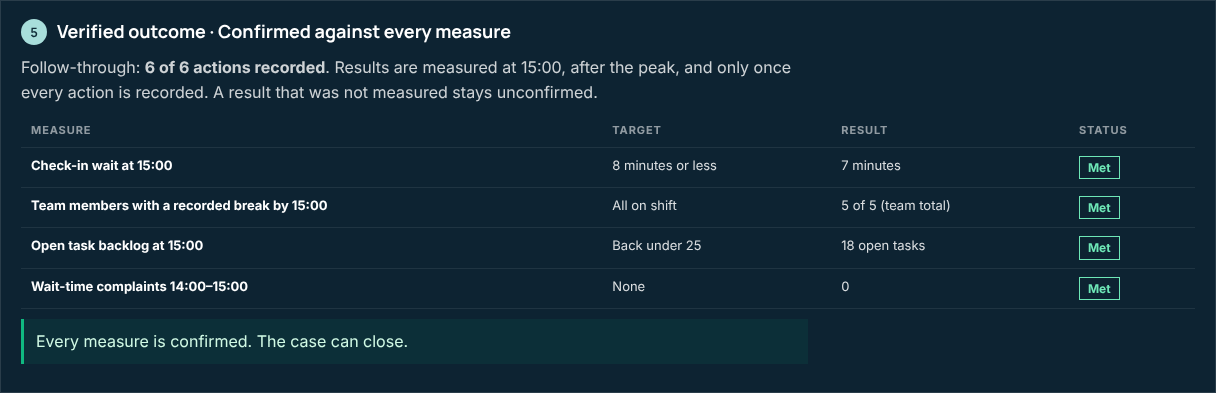
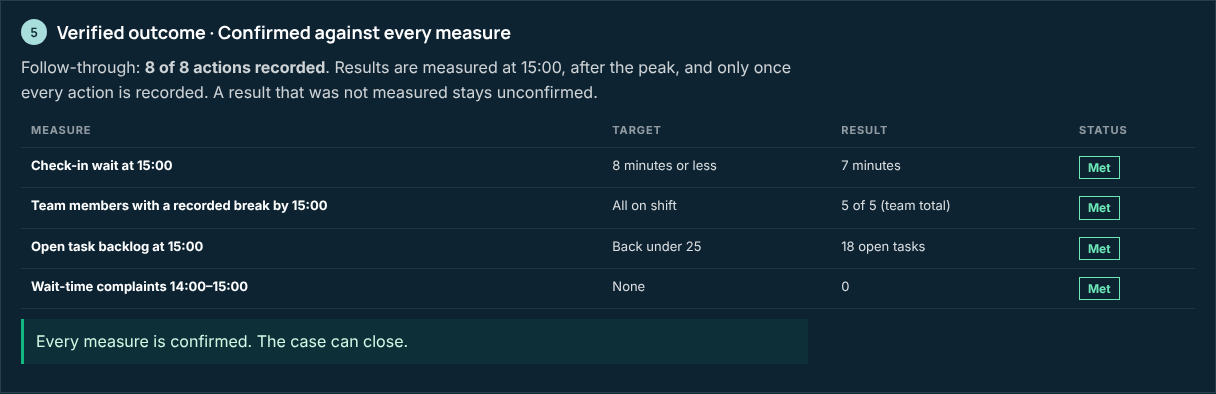
Stage 3: separate cross-property authorisation from cover in place
Both portfolio approvals now authorise the loan only. The capacity gap
stays open, and break cover stays blocked, until Coastal Resort records
the release and Harbour Hotel records the lent team member's arrival
(simulated). The redistribution plan in the capacity challenge moves
only the reservations agent, matching the one person available locally.

- New plan actions: release (General Manager · Coastal Resort, after
  both approvals) and arrival (Front Office Supervisor, after release).
- The capacity panel shows authorised / released / in place separately;
  the portfolio approval message says the loan is authorised, not
  carried out; the portfolio lists cover authorised but not in place.
- Unit and browser checks prove approvals (and release) alone do not
  unlock break cover, while the recorded arrival does.

Claude-Session: https://claude.ai/code/session_01F5TpjzTwv9w8J8EexRookR

diff --git a/artifacts/welbx/src/lib/peakPressure.ts b/artifacts/welbx/src/lib/peakPressure.ts
@@ -97,6 +97,7 @@ export const ACTORS = {
   "housekeeping-lead": "Housekeeping Lead · Harbour Hotel",
   "people-lead": "People & Culture Lead (restricted)",
   "regional-ops": "Regional Operations Manager (portfolio)",
+  "coastal-gm": "General Manager · Coastal Resort",
 } as const;
 export type ActorId = keyof typeof ACTORS;
 
@@ -139,7 +140,10 @@ export interface PeakState {
   review: { status: ReviewStatus; by?: ActorId; reason?: string; reviewInMinutes?: number; requested?: string; history: string[] };
   /** The guest-message draft needs the Duty Manager's approval before its action can finish. It is never sent. */
   draftApproved: boolean;
-  /** Set when the portfolio approves cross-property support (capacity challenge). */
+  /**
+   * Set when both portfolio approvals authorise the cross-property loan (capacity challenge).
+   * Authorisation alone does not close the cover gap: the release and arrival must be recorded.
+   */
   portfolioSupportApproved: boolean;
   done: Record<string, string>;
   measures: MeasureResult[] | null;
@@ -154,25 +158,38 @@ export function initialPeakState(challenge: ChallengeId): PeakState {
   };
 }
 
-/** People available to redistribute to the front desk and break cover, and how many the plan needs. */
+/**
+ * People who can cover the front desk and breaks, and how many the plan needs. In the capacity
+ * challenge the concierge is unavailable, so only the reservations agent can be released locally.
+ * The gap closes only when the lent team member's arrival is recorded, never on approval alone.
+ */
 export function capacity(state: PeakState) {
   const needed = 2;
   const available = state.challenge === "capacity" ? 1 : 2;
-  const gap = Math.max(0, needed - available - (state.portfolioSupportApproved ? 1 : 0));
-  return { needed, available, gap };
+  const lentInPlace = "arrival" in state.done ? 1 : 0;
+  const gap = Math.max(0, needed - available - lentInPlace);
+  return { needed, available, lentInPlace, authorised: state.portfolioSupportApproved, gap };
 }
 
 export function planFor(state: PeakState): ActionItem[] {
   const short = state.challenge === "capacity";
   const plan: ActionItem[] = [
-    { id: "redistribute", title: "Move a reservations agent and the concierge to the front desk for the peak", owner: "fo-supervisor", deadline: "13:45", dependsOn: ["approval"], evidence: "Roster change recorded" },
-    { id: "breaks", title: "Stagger breaks so everyone on shift has one by 15:00, covered by the redistributed staff", owner: "fo-supervisor", deadline: "15:00", dependsOn: ["redistribute", ...(short ? ["capacity"] : [])], evidence: "Count of team members with a recorded break (team total only)" },
+    short
+      ? { id: "redistribute", title: "Move the reservations agent to the front desk for the peak (the concierge is unavailable today)", owner: "fo-supervisor", deadline: "13:45", dependsOn: ["approval"], evidence: "Roster change recorded: 1 person moved" }
+      : { id: "redistribute", title: "Move a reservations agent and the concierge to the front desk for the peak", owner: "fo-supervisor", deadline: "13:45", dependsOn: ["approval"], evidence: "Roster change recorded: 2 people moved" },
+    { id: "breaks", title: short
+      ? "Stagger breaks so everyone on shift has one by 15:00, covered by the reservations agent and the team member lent by Coastal Resort"
+      : "Stagger breaks so everyone on shift has one by 15:00, covered by the redistributed staff", owner: "fo-supervisor", deadline: "15:00", dependsOn: ["redistribute", ...(short ? ["capacity"] : [])], evidence: "Count of team members with a recorded break (team total only)" },
     { id: "expectations", title: "Prepare a message for arriving guests about waits and early bag drop", owner: "guest-services", deadline: "14:00", dependsOn: ["approval", "draft"], evidence: "Draft approved by the Duty Manager and held; it is not sent from the demonstration" },
     { id: "housekeeping", title: "Re-prioritise the task queue for rooms needed by today's arrivals", owner: "housekeeping-lead", deadline: "14:30", dependsOn: ["approval"], evidence: "Queue order snapshot" },
     { id: "support", title: "Make the confidential support contact available to the whole team", owner: "people-lead", deadline: "14:00", dependsOn: ["approval"], evidence: "Offer shared with the team; who uses it is never recorded here" },
   ];
   if (short) {
-    plan.push({ id: "escalate", title: "Escalate the cover gap to the General Manager and request portfolio support", owner: "duty-manager", deadline: "13:50", dependsOn: ["approval"], evidence: "Escalation and portfolio request recorded", conditional: "Needed because break cover is one person short" });
+    plan.push(
+      { id: "escalate", title: "Escalate the cover gap to the General Manager and request portfolio support", owner: "duty-manager", deadline: "13:50", dependsOn: ["approval"], evidence: "Escalation and portfolio request recorded", conditional: "Needed because break cover is one person short" },
+      { id: "release", title: "Release one trained front-office team member to Harbour Hotel for 14:00–16:00", owner: "coastal-gm", deadline: "13:55", dependsOn: ["portfolio"], evidence: "Release time recorded at Coastal Resort, with confirmation that its own cover stays safe", conditional: "Only after both portfolio approvals" },
+      { id: "arrival", title: "Confirm the lent team member has arrived and been briefed at the front desk", owner: "fo-supervisor", deadline: "14:10", dependsOn: ["release"], evidence: "Arrival time recorded at Harbour Hotel; the gap closes only now", conditional: "Cover is in place only once arrival is recorded" },
+    );
   }
   return plan;
 }
@@ -181,6 +198,7 @@ function dependencyMet(state: PeakState, dependency: string) {
   if (dependency === "approval") return state.review.status === "approved";
   if (dependency === "draft") return state.draftApproved;
   if (dependency === "capacity") return capacity(state).gap === 0;
+  if (dependency === "portfolio") return state.portfolioSupportApproved;
   return dependency in state.done;
 }
 
@@ -189,10 +207,17 @@ export function actionState(state: PeakState, action: ActionItem): ActionState {
   return action.dependsOn.every(d => dependencyMet(state, d)) ? "ready" : "waiting";
 }
 
+/** Dependencies of an action that are not yet met. */
+export function pendingDependencies(state: PeakState, action: ActionItem): string[] {
+  return action.dependsOn.filter(d => !dependencyMet(state, d));
+}
+
 export const DEPENDENCY_LABELS: Record<string, string> = {
   approval: "Duty Manager approval",
   draft: "Duty Manager approval of the draft",
-  capacity: "Cover gap closed by portfolio support",
+  capacity: "Cover in place: the lent team member's arrival recorded",
+  portfolio: "Portfolio authorisation (Regional Operations Manager and Coastal Resort's General Manager)",
+  release: "Release recorded at Coastal Resort",
   redistribute: "Staff moved to the front desk",
 };
 
@@ -267,7 +292,7 @@ export function completeAction(state: PeakState, actionId: string, actor: ActorI
   assertRole(actor, action.owner, `record “${action.title}”`);
   const current = actionState(state, action);
   if (current === "done") throw new Error("Already recorded.");
-  if (current === "waiting") throw new Error(`Waiting for: ${action.dependsOn.filter(d => !dependencyMet(state, d)).map(d => DEPENDENCY_LABELS[d] ?? d).join(", ")}.`);
+  if (current === "waiting") throw new Error(`Waiting for: ${pendingDependencies(state, action).map(d => DEPENDENCY_LABELS[d] ?? d).join(", ")}.`);
   return { ...state, done: { ...state.done, [actionId]: at } };
 }
 
@@ -332,6 +357,7 @@ export function portfolioSummary(state: PeakState) {
   if (s === "awaiting-information") outstanding.push("Information requested by the Duty Manager");
   if (s === "approved" && !state.draftApproved) outstanding.push("Duty Manager approval of the guest message draft");
   if (s === "approved" && state.challenge === "capacity" && !state.portfolioSupportApproved) outstanding.push("Portfolio decision on cross-property cover");
+  if (state.portfolioSupportApproved && !("arrival" in state.done)) outstanding.push("Cross-property cover authorised but not yet in place");
   if (state.learning?.status === "proposed") outstanding.push("General Manager decision on the learning proposal");
   return {
     exposure: "1 property under peak pressure · 46 arrivals vs 28 typical · 2 uncovered front-office shifts",

diff --git a/artifacts/welbx/src/components/partner-room/PeakPressureScenario.tsx b/artifacts/welbx/src/components/partner-room/PeakPressureScenario.tsx
@@ -1,7 +1,7 @@
 import { useId, useState, type Dispatch, type SetStateAction } from "react";
 import {
   ACTORS, CHALLENGES, DEPENDENCY_LABELS, KIND_LABELS, LEARNING_ROLE, MIN_REASON, MONITOR_INTERVALS, REVIEW_ROLE,
-  actionState, approveDraft, assessPattern, buildSignals, capacity, completeAction, decideLearning, decideReview,
+  actionState, approveDraft, pendingDependencies, assessPattern, buildSignals, capacity, completeAction, decideLearning, decideReview,
   followThrough, outcome, planFor, receiveInformation, recordMeasures, recordMissingEvidence, reviewAgain,
   type ActorId, type ChallengeId, type PeakState, type ReviewDecision,
 } from "@/lib/peakPressure";
@@ -210,13 +210,18 @@ export function PeakPressureScenario({ state, setState, onRestart }: {
 
         {state.challenge === "capacity" && (
           <div className={`pk-capacity${cover.gap ? "" : " pk-capacity-closed"}`} data-testid="peak-capacity">
-            <p><strong>Preparation capacity:</strong> break cover needs {cover.needed} people; {cover.available} can be released at Harbour Hotel. {cover.gap
-              ? `Gap: ${cover.gap} person. Only a portfolio decision can close it: the Regional Operations Manager and Coastal Resort's General Manager must both approve.`
-              : "Gap closed by the approved portfolio support (simulated)."}</p>
-            {cover.gap > 0 && status === "approved" && !("escalate" in state.done) && (
+            <p><strong>Preparation capacity:</strong> break cover needs {cover.needed} people; with the concierge unavailable, {cover.available} can be released at Harbour Hotel. {cover.gap
+              ? `Gap: ${cover.gap} person, still open.`
+              : "Gap closed: the lent team member's arrival is recorded (simulated)."}</p>
+            <ol className="pk-cover-steps" aria-label="Cross-property cover: authorisation is not execution" data-testid="peak-cover-steps">
+              <li data-done={cover.authorised}><span>Authorised</span>{cover.authorised ? "Both portfolio approvals recorded. This allows the loan; it does not put anyone on the desk." : "Needs the Regional Operations Manager and Coastal Resort's General Manager."}</li>
+              <li data-done={"release" in state.done}><span>Released</span>{"release" in state.done ? `Recorded at Coastal Resort, ${state.done.release} (simulated).` : "Not yet recorded by Coastal Resort."}</li>
+              <li data-done={"arrival" in state.done}><span>In place</span>{"arrival" in state.done ? `Arrival recorded at Harbour Hotel, ${state.done.arrival} (simulated).` : "Arrival not yet recorded. Break cover stays blocked."}</li>
+            </ol>
+            {!cover.authorised && status === "approved" && !("escalate" in state.done) && (
               <p>Record the escalation below to raise the portfolio decision.</p>
             )}
-            {cover.gap > 0 && "escalate" in state.done && (
+            {!cover.authorised && "escalate" in state.done && (
               <a href="#portfolio-coordination" className="pk-link" onClick={event => { event.preventDefault(); navigateTo("/partner-room/product-proof/stage-3-operating-layer#portfolio-coordination"); }}>
                 Go to the portfolio decision on cross-property cover ↓
               </a>
@@ -227,7 +232,7 @@ export function PeakPressureScenario({ state, setState, onRestart }: {
         <ul className="pk-actions" aria-label="Intervention plan">
           {plan.map(action => {
             const current = actionState(state, action);
-            const waitingFor = action.dependsOn.filter(d => d === "approval" ? status !== "approved" : d === "draft" ? !state.draftApproved : d === "capacity" ? cover.gap > 0 : !(d in state.done));
+            const waitingFor = pendingDependencies(state, action);
             return (
               <li key={action.id} className={`pk-action pk-action-${current}`} data-action={action.id} data-state={current}>
                 <div className="pk-action-head">
@@ -259,7 +264,7 @@ export function PeakPressureScenario({ state, setState, onRestart }: {
                 {current === "waiting" && waitingFor.length > 0 && <p className="pk-waiting">Waiting for: {waitingFor.map(d => DEPENDENCY_LABELS[d] ?? d).join(", ")}</p>}
                 {current === "ready" && (
                   <button type="button" className="pk-record" onClick={() => attempt(s => completeAction(s, action.id, action.owner, action.deadline), `Recorded by ${ACTORS[action.owner]} (simulated): ${action.evidence.toLowerCase()}.`)}>
-                    Record as {ACTORS[action.owner].split(" · ")[0]}
+                    Record as {ACTORS[action.owner]}
                   </button>
                 )}
               </li>

diff --git a/artifacts/welbx/src/__tests__/stage3-peak-pressure.test.ts b/artifacts/welbx/src/__tests__/stage3-peak-pressure.test.ts
@@ -92,16 +92,44 @@ describe("Authority, deferral and the intervention plan", () => {
     expect(actionState(state, planFor(state).find(a => a.id === "breaks")!)).toBe("ready");
   });
 
-  it("challenge 2: not enough people adds an escalation and blocks break cover until the portfolio approves support", () => {
-    let state = approved("capacity");
-    expect(capacity(state).gap).toBe(1);
-    expect(planFor(state).map(a => a.id)).toContain("escalate");
-    state = completeAction(state, "redistribute", "fo-supervisor", "13:40");
-    expect(() => completeAction(state, "breaks", "fo-supervisor", "14:00")).toThrow(/Cover gap closed by portfolio support/);
+  it("challenge 2: the redistribution plan matches the local staff actually available", () => {
+    const short = approved("capacity");
+    expect(capacity(short)).toMatchObject({ needed: 2, available: 1, gap: 1 });
+    const redistribute = planFor(short).find(a => a.id === "redistribute")!;
+    expect(redistribute.title).toMatch(/Move the reservations agent to the front desk/);
+    expect(redistribute.title).not.toMatch(/concierge to the front desk/);
+    expect(redistribute.evidence).toMatch(/1 person moved/);
+    expect(planFor(approved()).find(a => a.id === "redistribute")!.evidence).toMatch(/2 people moved/);
+    expect(planFor(short).map(a => a.id)).toEqual(expect.arrayContaining(["escalate", "release", "arrival"]));
+  });
+
+  it("challenge 2: both portfolio approvals authorise the loan but do not unlock break cover", () => {
+    let state = completeAction(approved("capacity"), "redistribute", "fo-supervisor", "13:40");
+    state = completeAction(state, "escalate", "duty-manager", "13:50");
     expect(portfolioSummary(state).outstanding).toContain("Portfolio decision on cross-property cover");
+    expect(() => completeAction(state, "release", "coastal-gm", "13:55")).toThrow(/Portfolio authorisation/);
+
     state = approvePortfolioSupport(state);
-    expect(capacity(state).gap).toBe(0);
-    expect(completeAction(state, "breaks", "fo-supervisor", "14:00").done.breaks).toBe("14:00");
+    expect(capacity(state)).toMatchObject({ authorised: true, lentInPlace: 0, gap: 1 });
+    expect(actionState(state, planFor(state).find(a => a.id === "breaks")!)).toBe("waiting");
+    expect(() => completeAction(state, "breaks", "fo-supervisor", "14:00")).toThrow(/Cover in place: the lent team member's arrival recorded/);
+    expect(portfolioSummary(state).outstanding).toContain("Cross-property cover authorised but not yet in place");
+
+    // Release alone is not cover either; only the recorded arrival closes the gap.
+    expect(() => completeAction(state, "release", "regional-ops", "13:55")).toThrow(/Only the General Manager · Coastal Resort/);
+    expect(() => completeAction(state, "arrival", "fo-supervisor", "14:05")).toThrow(/Release recorded at Coastal Resort/);
+    state = completeAction(state, "release", "coastal-gm", "13:55");
+    expect(capacity(state).gap).toBe(1);
+    expect(() => completeAction(state, "breaks", "fo-supervisor", "14:00")).toThrow(/arrival recorded/);
+  });
+
+  it("challenge 2: recorded cover closes the gap and unlocks break cover", () => {
+    let state = approvePortfolioSupport(completeAction(approved("capacity"), "redistribute", "fo-supervisor", "13:40"));
+    state = completeAction(state, "release", "coastal-gm", "13:55");
+    state = completeAction(state, "arrival", "fo-supervisor", "14:05");
+    expect(capacity(state)).toMatchObject({ lentInPlace: 1, gap: 0 });
+    expect(portfolioSummary(state).outstanding).not.toContain("Cross-property cover authorised but not yet in place");
+    expect(completeAction(state, "breaks", "fo-supervisor", "14:10").done.breaks).toBe("14:10");
   });
 });
 

diff --git a/artifacts/welbx/src/lib/portfolioCoordination.ts b/artifacts/welbx/src/lib/portfolioCoordination.ts
@@ -57,6 +57,8 @@ export interface PortfolioException {
   evidenceRequired: string[];
   /** Welfare: the local role who keeps the case. */
   localDeciderId?: string;
+  /** What approval does and does not do, shown once every approval is recorded. */
+  afterApproval?: string;
 }
 
 export const PORTFOLIO_ACTORS: PortfolioActor[] = [
@@ -145,9 +147,10 @@ export const CROSS_PROPERTY_COVER_EXCEPTION: PortfolioException = {
   propertyIds: ["harbour", "coastal"],
   rule: "Moving staff between properties exceeds either property's own authority.",
   requiredApproverIds: ["regional-ops", "gm-coastal"],
-  proposedResponse: "Coastal Resort lends one trained front-office team member from 14:00 to 16:00 to close Harbour Hotel's break-cover gap.",
+  proposedResponse: "Authorise Coastal Resort to lend one trained front-office team member from 14:00 to 16:00. Harbour Hotel's break-cover gap stays open until the release and arrival are recorded.",
   staysLocal: "Harbour Hotel's Duty Manager keeps the intervention. Coastal Resort's General Manager decides whether it can spare someone. No individual is named in the portfolio view.",
-  evidenceRequired: ["Portfolio approval", "Coastal Resort's confirmation that its own cover is safe", "Hours lent recorded at both properties"],
+  afterApproval: "The loan is authorised, not carried out. Harbour Hotel's cover gap stays open until Coastal Resort records the release and Harbour Hotel records the arrival.",
+  evidenceRequired: ["Both approvals, which authorise the loan but do not put cover in place", "Release recorded at Coastal Resort, with confirmation that its own cover stays safe", "Arrival recorded at Harbour Hotel before the cover gap is treated as closed"],
 };
 
 export const MIN_RETURN_REASON = 10;

diff --git a/artifacts/welbx/src/components/partner-room/peak-pressure.css b/artifacts/welbx/src/components/partner-room/peak-pressure.css
@@ -63,6 +63,11 @@ tr[data-status="conflicting"] td, tr[data-status="conflicting"] th { background:
 .pk-capacity { margin: 0 0 12px; padding: 12px 14px; font-size: 13.5px; line-height: 1.55; color: #fde68a; border: 1px solid rgba(251, 191, 36, 0.45); background: rgba(251, 191, 36, 0.06); }
 .pk-capacity p { margin: 0 0 8px; }
 .pk-capacity-closed { color: #d1fae5; border-color: rgba(16, 185, 129, 0.45); background: rgba(16, 185, 129, 0.06); }
+.pk-cover-steps { list-style: none; margin: 0 0 8px; padding: 0; display: grid; grid-template-columns: repeat(auto-fit, minmax(min(100%, 200px), 1fr)); gap: 6px; }
+.pk-cover-steps li { padding: 8px 10px; font-size: 13px; line-height: 1.45; color: rgba(255, 255, 255, 0.8); border: 1px solid rgba(255, 255, 255, 0.18); border-left-width: 3px; }
+.pk-cover-steps li[data-done="true"] { border-left-color: #10b981; }
+.pk-cover-steps li[data-done="false"] { border-left-color: rgba(255, 255, 255, 0.35); }
+.pk-cover-steps span { display: block; font-size: 11px; font-weight: 700; letter-spacing: 0.08em; text-transform: uppercase; color: #fff; }
 .pk-link { display: inline-flex; align-items: center; min-height: 44px; font-weight: 700; color: #fbbf24; }
 
 .pk-actions { list-style: none; margin: 0; padding: 0; display: grid; grid-template-columns: repeat(auto-fit, minmax(min(100%, 320px), 1fr)); gap: 8px; }

diff --git a/artifacts/welbx/src/components/partner-room/PortfolioCoordination.tsx b/artifacts/welbx/src/components/partner-room/PortfolioCoordination.tsx
@@ -71,7 +71,7 @@ export function PortfolioCoordination({ peak }: { peak?: PeakPortfolioLink }) {
       setMessage({ tone: "done", text: action === "return"
         ? `Returned by ${actorLabel(actorId)}. Nothing proceeds; the properties keep their cases.`
         : next.status === "approved"
-          ? `Approved by ${actorLabel(actorId)}. All required approvals are recorded (simulated); nothing was sent.`
+          ? `Approved by ${actorLabel(actorId)}. All required approvals are recorded (simulated); nothing was sent.${exception.afterApproval ? ` ${exception.afterApproval}` : ""}`
           : `Approval recorded for ${actorLabel(actorId)}. Still needed: ${pendingApprovers(exception, next).map(actorLabel).join(", ")}.` });
     } catch (error) {
       setMessage({ tone: "refused", text: error instanceof Error ? error.message : String(error) });
